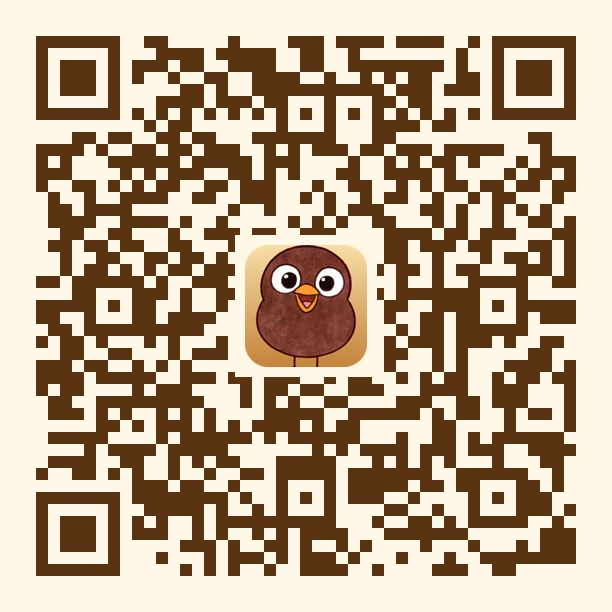
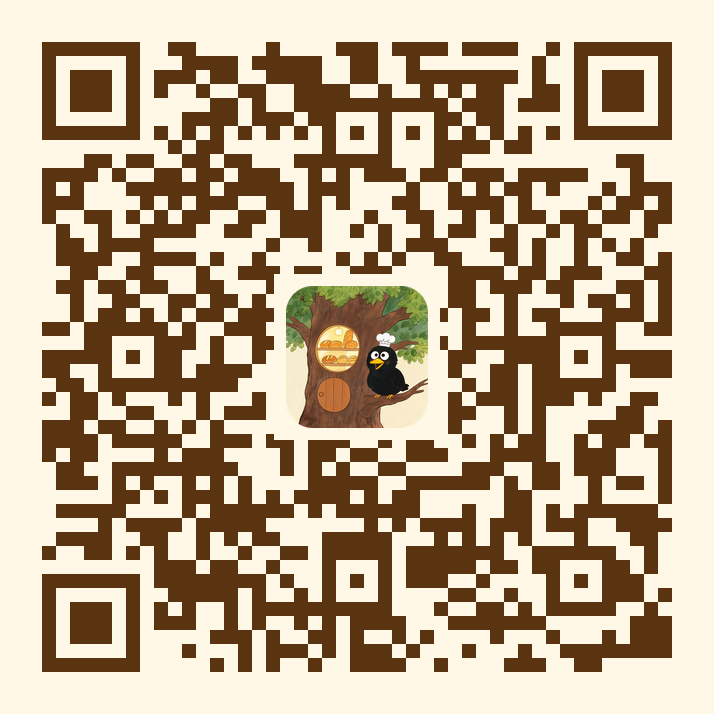
feat: v3.2.0 电影感片头 + iPad 全面优化 + 新图标二维码
片头：5镜头蒙太奇(推/拉/横摇)+字幕+光斑+标题浮现，纯CSS无视频，秒开可跳过
iPad：安全区适配(刘海/圆角)、100dvh、禁双击缩放与手势缩放、首触解锁音频、
      触摸目标加大、position:fixed 防整页拖动、prefers-reduced-motion 降级
SW v3：新增 asset-manifest.json，激活后 3 并发后台预缓存全部258个素材(40MB)，
      二次打开完全离线秒开
图标/二维码：用新画的大树面包店+厨师乌鸦重做，manifest 补 maskable/scope/display_override

Changed region(s): [[0.3725, 0.3725, 0.6209, 0.6209]]

diff --git a/css/story.css b/css/story.css
@@ -3,9 +3,13 @@
   user-select: none; -webkit-user-select: none; }
 html, body { width: 100%; height: 100%; overflow: hidden; background: #2c1e12;
   overscroll-behavior: none; -webkit-touch-callout: none; touch-action: manipulation;
+  position: fixed;                       /* iPad Safari 防止整页被拖动 */
+  -webkit-text-size-adjust: 100%;
   font-family: "Yuanti SC", "PingFang SC", "Hiragino Sans GB", sans-serif; }
 
-#stage { position: fixed; inset: 0; overflow: hidden; background: #f7edd8; }
+/* 用 100dvh 兼容 Safari 地址栏收放；不支持时回落 100% */
+#stage { position: fixed; inset: 0; height: 100%; height: 100dvh;
+  overflow: hidden; background: #f7edd8; }
 /* 绘本版式：上面整幅插画，下面文字条，互不遮挡 */
 .page { position: absolute; inset: 0; cursor: pointer; display: flex; flex-direction: column; background: #efe0c2; }
 .art { position: relative; flex: 1 1 auto; overflow: hidden; min-height: 0; }
@@ -23,13 +27,13 @@ html, body { width: 100%; height: 100%; overflow: hidden; background: #2c1e12;
 /* ===== 旁白（画面下方文字条）===== */
 .narration { position: relative; flex: 1 1 auto; min-height: 0;
   background: linear-gradient(#fffdf2, #f6e9cf); border-top: 0.7vmin solid #c9a05e;
-  padding: 2.6vmin 15vmin 2.6vmin 5vmin; display: flex; align-items: center;
+  padding: 2.6vmin 16vmin 2.6vmin calc(5vmin + env(safe-area-inset-left)); padding-bottom: calc(2.6vmin + env(safe-area-inset-bottom)); display: flex; align-items: center;
   box-shadow: 0 -0.6vmin 2.4vmin rgba(0,0,0,.22); animation: rise .45s ease-out both; }
 .narration p { font-size: 4.1vmin; line-height: 1.55; color: #4a2f14; letter-spacing: .03em; }
 @keyframes rise { 0% { opacity: 0; transform: translateY(2.4vmin); } 100% { opacity: 1; transform: none; } }
 
-.replay-btn { position: absolute; right: 3.4vmin; top: 50%; transform: translateY(-50%);
-  width: 11vmin; height: 11vmin; border-radius: 50%; background: #f0c46a; border: 0.5vmin solid #a9762c;
+.replay-btn { position: absolute; right: calc(3.4vmin + env(safe-area-inset-right)); top: 50%; transform: translateY(-50%);
+  width: 12.5vmin; height: 12.5vmin; border-radius: 50%; background: #f0c46a; border: 0.5vmin solid #a9762c;
   display: flex; align-items: center; justify-content: center; font-size: 5vmin;
   box-shadow: 0 0.6vmin 0 #a9762c; }
 .replay-btn:active { transform: translateY(-50%) translateY(0.4vmin); box-shadow: none; }
@@ -39,14 +43,14 @@ html, body { width: 100%; height: 100%; overflow: hidden; background: #2c1e12;
 @keyframes blink { 0%,100% { opacity: .45; } 50% { opacity: 1; } }
 
 /* ===== 小伙伴徽章 ===== */
-.companion-badge { position: absolute; top: 2.4vmin; right: 2.6vmin; display: flex; align-items: center; gap: 1.4vmin;
+.companion-badge { position: absolute; top: calc(2.4vmin + env(safe-area-inset-top)); right: calc(2.6vmin + env(safe-area-inset-right)); display: flex; align-items: center; gap: 1.4vmin;
   background: rgba(255,251,238,.92); border: 0.5vmin solid #c9a05e; border-radius: 9vmin;
   padding: 1vmin 3vmin 1vmin 1vmin; box-shadow: 0 0.7vmin 2vmin rgba(0,0,0,.3); }
 .companion-badge img { width: 10vmin; height: 10vmin; object-fit: contain; }
 .companion-badge span { font-size: 3.4vmin; color: #5a3410; font-weight: bold; }
 
 /* ===== 返回 ===== */
-.back-btn { position: absolute; top: 2.4vmin; left: 2.6vmin; width: 11vmin; height: 11vmin; border-radius: 50%;
+.back-btn { position: absolute; top: calc(2.4vmin + env(safe-area-inset-top)); left: calc(2.6vmin + env(safe-area-inset-left)); width: 12vmin; height: 12vmin; border-radius: 50%;
   background: rgba(255,251,238,.9); border: 0.5vmin solid #c9a05e; color: #7a5220;
   display: flex; align-items: center; justify-content: center; font-size: 5.4vmin;
   box-shadow: 0 0.6vmin 1.6vmin rgba(0,0,0,.25); }
@@ -126,5 +130,5 @@ html, body { width: 100%; height: 100%; overflow: hidden; background: #2c1e12;
 .shelf-item .bn { font-size: 2.9vmin; color: #5a3410; font-weight: bold; }
 
 /* 细进度条 */
-.progress { position: absolute; top: 0; left: 0; right: 0; height: 0.8vmin; background: rgba(90,52,16,.22); z-index: 5; }
+.progress { position: absolute; top: env(safe-area-inset-top); left: 0; right: 0; height: 0.8vmin; background: rgba(90,52,16,.22); z-index: 5; }
 .progress-fill { height: 100%; background: linear-gradient(90deg, #f0c46a, #d1913c); transition: width .4s ease; }

diff --git a/css/intro.css b/css/intro.css
@@ -1,0 +1,75 @@
+/* ==== 片头动画 ==== */
+.intro { position: absolute; inset: 0; background: #1c1208; overflow: hidden; z-index: 40; }
+.intro.fade-out { animation: introOut .6s ease forwards; }
+@keyframes introOut { to { opacity: 0; } }
+
+.intro-stage { position: absolute; inset: 0; }
+
+/* 每个镜头一层，交叉淡入淡出 */
+.shot { position: absolute; inset: 0; opacity: 0; transition: opacity 1.1s ease; will-change: opacity; }
+.shot.in { opacity: 1; }
+.shot.out { opacity: 0; }
+.shot img { width: 100%; height: 100%; object-fit: cover; will-change: transform;
+  transform-origin: center; }
+
+/* 运镜：慢推、慢拉、横摇 */
+.shot.push img       { animation: kbPush 4.8s linear both; }
+.shot.push-slow img  { animation: kbPushSlow 4.2s linear both; }
+.shot.pull img       { animation: kbPull 4.6s linear both; }
+.shot.pan-right img  { animation: kbPanR 4.2s linear both; }
+.shot.pan-left img   { animation: kbPanL 4.2s linear both; }
+@keyframes kbPush     { from { transform: scale(1.0)  translate3d(0,0,0); } to { transform: scale(1.17) translate3d(0,-1.5%,0); } }
+@keyframes kbPushSlow { from { transform: scale(1.05); }                    to { transform: scale(1.18); } }
+@keyframes kbPull     { from { transform: scale(1.22); }                    to { transform: scale(1.02); } }
+@keyframes kbPanR     { from { transform: scale(1.14) translate3d(-3.5%,0,0); } to { transform: scale(1.14) translate3d(3.5%,0,0); } }
+@keyframes kbPanL     { from { transform: scale(1.14) translate3d(3.5%,0,0); }  to { transform: scale(1.14) translate3d(-3.5%,0,0); } }
+
+/* 暗角 + 顶底压暗，更像电影 */
+.intro-vig { position: absolute; inset: 0; pointer-events: none;
+  background:
+    linear-gradient(to bottom, rgba(20,10,2,.55) 0%, transparent 20%, transparent 66%, rgba(20,10,2,.72) 100%),
+    radial-gradient(ellipse at center, transparent 52%, rgba(20,10,2,.5) 100%); }
+
+/* 字幕 */
+.intro-cap { position: absolute; left: 0; right: 0; bottom: 11%; text-align: center;
+  font-size: 4.2vmin; color: #fff4dc; letter-spacing: .1em; opacity: 0;
+  text-shadow: 0 0.4vmin 2vmin rgba(0,0,0,.9); transition: opacity .9s ease; padding: 0 6vw; }
+.intro-cap.show { opacity: 1; }
+
+/* 标题浮现 */
+.intro-title { position: absolute; inset: 0; display: flex; flex-direction: column;
+  align-items: center; justify-content: flex-end; padding-bottom: 9vh; gap: 1.6vmin; opacity: 0;
+  transform: scale(.92); transition: opacity 1.1s ease, transform 1.4s cubic-bezier(.2,.9,.3,1); }
+.intro-title.show { opacity: 1; transform: scale(1); }
+.intro-title::before { content: ""; position: absolute; left: 0; right: 0; bottom: 0; height: 46%;
+  background: linear-gradient(to top, rgba(24,12,2,.86), rgba(24,12,2,.55) 45%, transparent);
+  pointer-events: none; }
+.intro-title h1, .intro-title p { position: relative; }
+.intro-title h1 { font-size: 12vmin; color: #fff6de; letter-spacing: 1.4vmin;
+  text-shadow: 0 0.8vmin 0 #8a5a24, 0 2vmin 5vmin rgba(0,0,0,.85); }
+.intro-title p { font-size: 3.4vmin; color: #ffe9b8; text-shadow: 0 0.4vmin 1.6vmin rgba(0,0,0,.9); }
+
+/* 跳过 */
+.intro-skip { position: absolute; top: calc(2.6vmin + env(safe-area-inset-top));
+  right: calc(3vmin + env(safe-area-inset-right));
+  background: rgba(255,251,238,.9); border: 0.4vmin solid #c9a05e; border-radius: 6vmin;
+  padding: 1.2vmin 3.4vmin; font-size: 3vmin; color: #5a3410; font-weight: bold;
+  box-shadow: 0 0.5vmin 1.6vmin rgba(0,0,0,.4); cursor: pointer; z-index: 3; }
+.intro-skip:active { transform: scale(.94); }
+
+/* 飘浮光点 */
+.mote { position: absolute; top: -6vmin; width: 1.1vmin; height: 1.1vmin; border-radius: 50%;
+  background: radial-gradient(circle, rgba(255,240,190,.95), rgba(255,220,140,0) 70%);
+  transform: scale(var(--s, 1)); animation: motefall linear infinite; pointer-events: none; z-index: 2; }
+@keyframes motefall {
+  0%   { transform: translate3d(0,0,0) scale(var(--s,1)); opacity: 0; }
+  12%  { opacity: .9; }
+  88%  { opacity: .7; }
+  100% { transform: translate3d(6vmin, 112vh, 0) scale(var(--s,1)); opacity: 0; }
+}
+
+/* 减少动效偏好：直接给静态画面 */
+@media (prefers-reduced-motion: reduce) {
+  .shot img { animation: none !important; transform: scale(1.05); }
+  .mote { display: none; }
+}

diff --git a/js/intro.js b/js/intro.js
@@ -1,0 +1,94 @@
+/* =====================================================================
+   片头动画：多镜头蒙太奇 + 缓慢运镜 + 光斑/叶片 + 标题浮现
+   纯 CSS/JS，无视频文件，iPad 秒开、离线可放。
+   （Seedance 开通后可换成 <video>，把 playIntro 内部替换即可）
+   ===================================================================== */
+const Intro = (() => {
+  // 镜头表：[插画, 运镜, 停留毫秒, 字幕]
+  const SHOTS = [
+    { img: 's01_tree',     move: 'push',       ms: 3600, cap: '在很远很远的森林里……' },
+    { img: 's02_inside',   move: 'pan-right',  ms: 3000, cap: '有一家开在大树里的面包店' },
+    { img: 's03_babies',   move: 'push-slow',  ms: 3000, cap: '四只小乌鸦出生啦' },
+    { img: 's14_many',     move: 'pan-left',   ms: 3000, cap: '还有好多好多好玩的面包' },
+    { img: 's28_finale',   move: 'pull',       ms: 3200, cap: '' },
+  ];
+
+  let timer = null, onDone = null, killed = false;
+
+  function stop() {
+    killed = true;
+    if (timer) { clearTimeout(timer); timer = null; }
+  }
+
+  function play(stage, done) {
+    killed = false; onDone = done;
+
+    const wrap = document.createElement('div');
+    wrap.className = 'intro';
+    wrap.innerHTML = `
+      <div class="intro-stage"></div>
+      <div class="intro-cap"></div>
+      <div class="intro-title">
+        <h1>乌鸦面包店</h1>
+        <p>一个开在大树上的、香喷喷的森林故事</p>
+      </div>
+      <div class="intro-skip">跳过 ▸</div>
+      <div class="intro-vig"></div>`;
+    stage.innerHTML = '';
+    stage.appendChild(wrap);
+
+    const shotBox = wrap.querySelector('.intro-stage');
+    const capBox  = wrap.querySelector('.intro-cap');
+    const titleEl = wrap.querySelector('.intro-title');
+    const skipBtn = wrap.querySelector('.intro-skip');
+
+    // 预加载所有镜头，避免中途黑屏
+    SHOTS.forEach(s => { new Image().src = `assets/scenes/${s.img}.jpg`; });
+
+    // 飘落的小光点（面包屑/阳光尘埃）
+    for (let i = 0; i < 14; i++) {
+      const d = document.createElement('i');
+      d.className = 'mote';
+      d.style.left = `${Math.random() * 100}%`;
+      d.style.animationDelay = `${Math.random() * 8}s`;
+      d.style.animationDuration = `${7 + Math.random() * 7}s`;
+      d.style.setProperty('--s', `${0.5 + Math.random() * 1.1}`);
+      wrap.appendChild(d);
+    }
+
+    const finish = () => { if (killed) return; stop(); wrap.classList.add('fade-out'); setTimeout(() => onDone && onDone(), 620); };
+    skipBtn.onclick = e => { e.stopPropagation(); finish(); };
+
+    let i = 0;
+    function nextShot() {
+      if (killed) return;
+      if (i >= SHOTS.length) { finish(); return; }
+      const s = SHOTS[i];
+
+      const layer = document.createElement('div');
+      layer.className = `shot ${s.move}`;
+      const im = document.createElement('img');
+      im.src = `assets/scenes/${s.img}.jpg`;
+      im.decoding = 'async';
+      layer.appendChild(im);
+      shotBox.appendChild(layer);
+      requestAnimationFrame(() => layer.classList.add('in'));
+
+      // 上一个镜头淡出并移除，始终只留 2 层
+      const prev = shotBox.children[shotBox.children.length - 2];
+      if (prev) { prev.classList.add('out'); setTimeout(() => prev.remove(), 1300); }
+
+      capBox.textContent = s.cap || '';
+      capBox.classList.toggle('show', !!s.cap);
+
+      // 最后一个镜头浮出标题
+      if (i === SHOTS.length - 1) setTimeout(() => titleEl.classList.add('show'), 700);
+
+      i++;
+      timer = setTimeout(nextShot, s.ms);
+    }
+    nextShot();
+  }
+
+  return { play, stop };
+})();

diff --git a/sw.js b/sw.js
@@ -1,26 +1,58 @@
-/* Service Worker v2（互动绘本版）
-   - html/js/css：网络优先（保证改版能立刻生效，离线时回落缓存）
+/* Service Worker v3（互动绘本 · iPad 优化）
+   - html/js/css：网络优先（改版立刻生效，离线回落缓存）
    - 图片/音频：缓存优先（秒开、离线可听）
-   注意：旧版游戏的缓存会在 activate 时全部清掉 */
-const CACHE = 'crow-story-v2';
+   - 安装后后台静默预缓存全部素材 → iPad 上第二次打开完全离线可用 */
+const CACHE = 'crow-story-v3';
 const isDoc = url => /\.(html|js|css|json)$/.test(url) || url.endsWith('/');
 
-self.addEventListener('install', () => self.skipWaiting());
+// 首屏必需，install 阶段就缓存
+const CORE = [
+  './', 'index.html', 'manifest.json',
+  'css/story.css', 'css/intro.css',
+  'js/voice_lines.js', 'js/story-data.js', 'js/intro.js', 'js/story.js',
+  'assets/scenes/s01_tree.jpg',
+];
+
+self.addEventListener('install', e => {
+  self.skipWaiting();
+  e.waitUntil(caches.open(CACHE).then(c => c.addAll(CORE)).catch(() => {}));
+});
 
 self.addEventListener('activate', e => {
   e.waitUntil(
     caches.keys()
       .then(keys => Promise.all(keys.filter(k => k !== CACHE).map(k => caches.delete(k))))
       .then(() => self.clients.claim())
+      .then(precacheAll)          // 后台慢慢把剩下的素材拉全
   );
 });
+
+// 后台预缓存全部插画/图标/配音（低并发，不抢首屏带宽）
+async function precacheAll() {
+  try {
+    const res = await fetch('asset-manifest.json', { cache: 'no-cache' });
+    if (!res.ok) return;
+    const list = await res.json();
+    const cache = await caches.open(CACHE);
+    const queue = list.slice();
+    const worker = async () => {
+      while (queue.length) {
+        const url = queue.shift();
+        if (await cache.match(url)) continue;
+        try { const r = await fetch(url, { cache: 'no-cache' }); if (r.ok) await cache.put(url, r); } catch {}
+      }
+    };
+    await Promise.all([worker(), worker(), worker()]);   // 3 条并发
+  } catch {}
+}
+
+self.addEventListener('message', e => { if (e.data === 'precache') precacheAll(); });
 
 self.addEventListener('fetch', e => {
   const { request } = e;
   if (request.method !== 'GET' || !request.url.startsWith(self.location.origin)) return;
 
   if (isDoc(request.url)) {
-    // 网络优先
     e.respondWith(
       fetch(request).then(res => {
         const clone = res.clone();
@@ -29,7 +61,6 @@ self.addEventListener('fetch', e => {
       }).catch(() => caches.match(request))
     );
   } else {
-    // 缓存优先（图片/音频）
     e.respondWith(
       caches.match(request).then(hit => hit || fetch(request).then(res => {
         if (res.ok) { const clone = res.clone(); caches.open(CACHE).then(c => c.put(request, clone)); }

diff --git a/index.html b/index.html
@@ -2,23 +2,32 @@
 <html lang="zh-CN">
 <head>
 <meta charset="UTF-8">
-<meta name="viewport" content="width=device-width, initial-scale=1.0, maximum-scale=1.0, user-scalable=no, viewport-fit=cover">
+<meta name="viewport" content="width=device-width, initial-scale=1.0, maximum-scale=1.0, minimum-scale=1.0, user-scalable=no, viewport-fit=cover">
 <meta name="mobile-web-app-capable" content="yes">
 <meta name="apple-mobile-web-app-capable" content="yes">
 <meta name="apple-mobile-web-app-status-bar-style" content="black-translucent">
 <meta name="apple-mobile-web-app-title" content="乌鸦面包店">
-<meta name="theme-color" content="#d1913c">
+<meta name="format-detection" content="telephone=no">
+<meta name="theme-color" content="#2c1e12">
 <title>乌鸦面包店 · 互动绘本</title>
 <link rel="manifest" href="manifest.json">
 <link rel="apple-touch-icon" href="assets/icons/apple-touch-icon.png">
+<link rel="apple-touch-startup-image" href="assets/icons/icon-512.png">
+<link rel="preload" as="image" href="assets/scenes/s01_tree.jpg">
 <link rel="stylesheet" href="css/story.css">
+<link rel="stylesheet" href="css/intro.css">
 </head>
 <body>
 <div id="stage"></div>
 <div id="orient-tip">📱 把 iPad 横过来听故事哦～</div>
 <script src="js/voice_lines.js"></script>
 <script src="js/story-data.js"></script>
+<script src="js/intro.js"></script>
 <script src="js/story.js"></script>
-<script>if ('serviceWorker' in navigator) navigator.serviceWorker.register('sw.js');</script>
+<script>
+if ('serviceWorker' in navigator) {
+  window.addEventListener('load', () => navigator.serviceWorker.register('sw.js'));
+}
+</script>
 </body>
 </html>

diff --git a/js/story.js b/js/story.js
@@ -250,7 +250,35 @@ function showEnd() {
   playVoice('the_end');
 }
 
-/* 调试：?node=n18 直接跳页（默认给个伙伴，避免 {C} 空着） */
+/* =========== iPad：首次触摸解锁音频 =========== */
+function unlockAudio() {
+  try {
+    const c = new (window.AudioContext || window.webkitAudioContext)();
+    if (c.state === 'suspended') c.resume();
+    const a = new Audio('assets/audio/the_end.mp3');
+    a.volume = 0; a.play().then(() => { a.pause(); a.currentTime = 0; }).catch(() => {});
+  } catch {}
+  window.removeEventListener('touchstart', unlockAudio);
+  window.removeEventListener('pointerdown', unlockAudio);
+}
+window.addEventListener('touchstart', unlockAudio, { once: true, passive: true });
+window.addEventListener('pointerdown', unlockAudio, { once: true });
+
+/* iPad Safari：屏蔽双指缩放和双击放大 */
+document.addEventListener('gesturestart', e => e.preventDefault());
+let _lastTap = 0;
+document.addEventListener('touchend', e => {
+  const now = Date.now();
+  if (now - _lastTap < 300) e.preventDefault();
+  _lastTap = now;
+}, { passive: false });
+
+/* =========== 启动 =========== */
 const _q = new URLSearchParams(location.search).get('node');
-if (_q && STORY[_q]) { companion = COMPANIONS[0]; go(_q); }
-else showTitle();
+if (_q && STORY[_q]) {                       // 调试：?node=n18 直接跳页
+  companion = COMPANIONS[0]; go(_q);
+} else if (new URLSearchParams(location.search).get('intro') === '0') {
+  showTitle();                               // ?intro=0 跳过片头
+} else {
+  Intro.play(stage, showTitle);              // 正常启动：先播片头
+}
